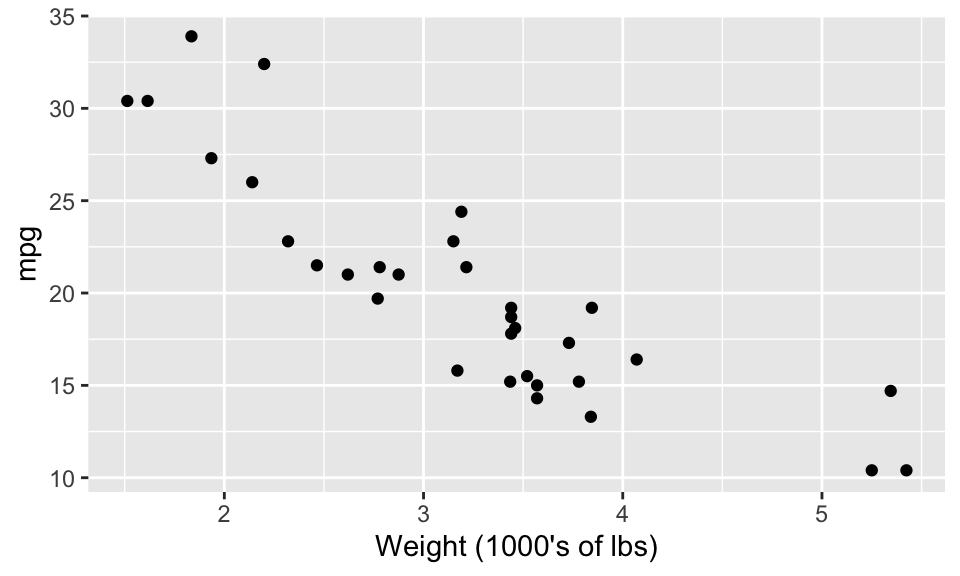
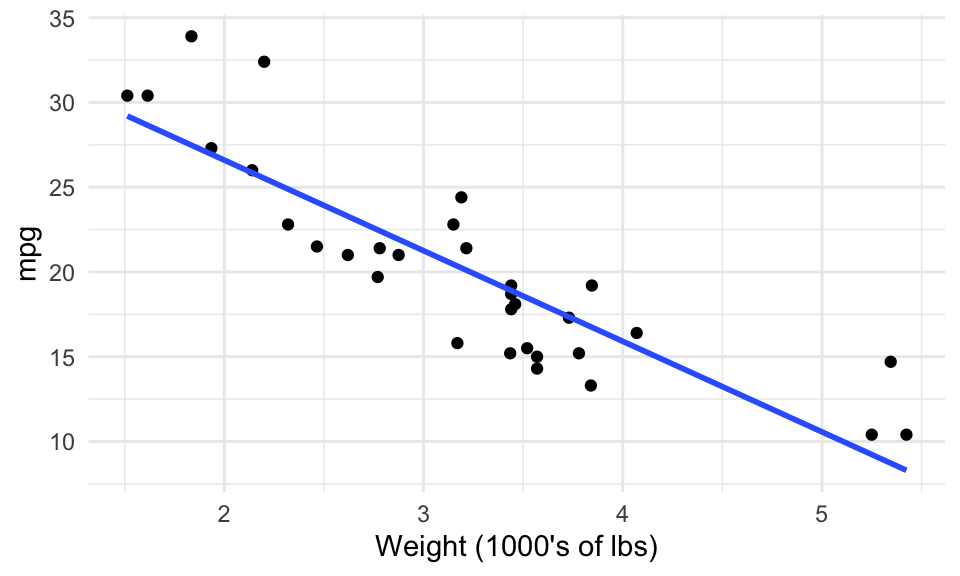
updated notes-a09 to load required packages

diff --git a/content/notes/notes-a09.html b/content/notes/notes-a09.html
@@ -6,6 +6,9 @@ output: html_document
 <script src="/rmarkdown-libs/header-attrs/header-attrs.js"></script>
 
 
+<pre class="r"><code>library(tidyverse)
+library(tidymodels)
+library(gapminder)</code></pre>
 <p>From today’s class, students are anticipated to be able to:</p>
 <ul>
 <li>make a model object in R, using <code>lm()</code> as an example.</li>
@@ -55,14 +58,14 @@ output: html_document
 <li>How many more miles per gallon can we expect of a car that weighs 1000 lbs less than another car?</li>
 </ol>
 <p>A simple scatterplot will give us a general idea, but can’t give us specifics. Here, we use the <code>mtcars</code> dataset in the <code>datasets</code> package. A linear model is one example of a model that can attempt to answer all three – the line corresponding to the fitted model has been added to the scatterplot.</p>
-<pre><code>## Error in ggplot(mtcars, aes(wt, mpg)): could not find function &quot;ggplot&quot;</code></pre>
+<p><img src="/notes/notes-a09_files/figure-html/unnamed-chunk-3-1.png" width="480" style="display: block; margin: auto;" /></p>
 <p>(By the way, you can plot the model using <code>ggplot2</code>’s <code>geom_smooth()</code> layer – but you can’t interact with the model downstream.)</p>
 <p>We can make a prediction of mpg for a car weighing 3,000 lbs by evaluating the line at X = 3:</p>
-<pre><code>## Error in predict(fit, newdata = tibble(wt = 3)) %&gt;% unname(): could not find function &quot;%&gt;%&quot;</code></pre>
+<pre><code>## [1] 21.25171</code></pre>
 <p>We can find the p-value testing the null hypothesis that the true slope of the regression line is 0:</p>
-<pre><code>## Error in glance(fit)$p.value %&gt;% unname(): could not find function &quot;%&gt;%&quot;</code></pre>
+<pre><code>## [1] 1.293959e-10</code></pre>
 <p>And we can calculate how many more miles per gallon a car weighing 1000 less lbs would be expected to have through the slope:</p>
-<pre><code>## Error in tidy(fit): could not find function &quot;tidy&quot;</code></pre>
+<pre><code>## [1] 5.344472</code></pre>
 </div>
 <div id="fitting-a-model-in-r" class="section level2">
 <h2>Fitting a model in R</h2>
@@ -105,7 +108,11 @@ output: html_document
 <h3><code>tidy()</code></h3>
 <p>Use the <code>tidy()</code> function for a statistical summary of each component of your model, where each component gets a row in the output tibble. For <code>lm()</code>, <code>tidy()</code> gives one row per regression coefficient (slope and intercept).</p>
 <pre class="r"><code>tidy(my_lm)</code></pre>
-<pre><code>## Error in tidy(my_lm): could not find function &quot;tidy&quot;</code></pre>
+<pre><code>## # A tibble: 2 × 5
+##   term        estimate std.error statistic  p.value
+##   &lt;chr&gt;          &lt;dbl&gt;     &lt;dbl&gt;     &lt;dbl&gt;    &lt;dbl&gt;
+## 1 (Intercept)    37.3      1.88      19.9  8.24e-19
+## 2 wt             -5.34     0.559     -9.56 1.29e-10</code></pre>
 <p><code>tidy()</code> only works if it makes sense to talk about model “components”.</p>
 </div>
 <div id="augment" class="section level3">
@@ -113,17 +120,37 @@ output: html_document
 <p>Use the <code>augment()</code> function to make predictions on a dataset by augmenting predictions as a new column to your data. By default, <code>augment()</code> uses the dataset that was used to fit the model.</p>
 <pre class="r"><code>augment(my_lm) %&gt;% 
   print(n = 5)</code></pre>
-<pre><code>## Error in augment(my_lm) %&gt;% print(n = 5): could not find function &quot;%&gt;%&quot;</code></pre>
+<pre><code>## # A tibble: 32 × 9
+##   .rownames           mpg    wt .fitted .resid   .hat .sigma   .cooksd .std.re…¹
+##   &lt;chr&gt;             &lt;dbl&gt; &lt;dbl&gt;   &lt;dbl&gt;  &lt;dbl&gt;  &lt;dbl&gt;  &lt;dbl&gt;     &lt;dbl&gt;     &lt;dbl&gt;
+## 1 Mazda RX4          21    2.62    23.3 -2.28  0.0433   3.07 0.0133      -0.766 
+## 2 Mazda RX4 Wag      21    2.88    21.9 -0.920 0.0352   3.09 0.00172     -0.307 
+## 3 Datsun 710         22.8  2.32    24.9 -2.09  0.0584   3.07 0.0154      -0.706 
+## 4 Hornet 4 Drive     21.4  3.22    20.1  1.30  0.0313   3.09 0.00302      0.433 
+## 5 Hornet Sportabout  18.7  3.44    18.9 -0.200 0.0329   3.10 0.0000760   -0.0668
+## # … with 27 more rows, and abbreviated variable name ¹.std.resid
+## # ℹ Use `print(n = ...)` to see more rows</code></pre>
 <p>We can also predict on new datasets. Here are predictions of <code>mpg</code> for cars weighing 3, 4, and 5 thousand lbs.</p>
 <pre class="r"><code>augment(my_lm, newdata = tibble(wt = 3:5))</code></pre>
-<pre><code>## Error in augment(my_lm, newdata = tibble(wt = 3:5)): could not find function &quot;augment&quot;</code></pre>
+<pre><code>## # A tibble: 3 × 2
+##      wt .fitted
+##   &lt;int&gt;   &lt;dbl&gt;
+## 1     3    21.3
+## 2     4    15.9
+## 3     5    10.6</code></pre>
 <p>Notice that only the “X” variables are needed in the input tibble (<code>wt</code>), and that since the “Y” variable (<code>mpg</code>) wasn’t provided, <code>augment()</code> couldn’t calculate anything besides a prediction.</p>
 </div>
 <div id="glance" class="section level3">
 <h3><code>glance()</code></h3>
 <p>Use the <code>glance()</code> function to extract a summary of the model as a whole, in the form of a one-row tibble. This will give you information related to the model fit.</p>
 <pre class="r"><code>glance(my_lm)</code></pre>
-<pre><code>## Error in glance(my_lm): could not find function &quot;glance&quot;</code></pre>
+<pre><code>## # A tibble: 1 × 12
+##   r.squared adj.r.squa…¹ sigma stati…²  p.value    df logLik   AIC   BIC devia…³
+##       &lt;dbl&gt;        &lt;dbl&gt; &lt;dbl&gt;   &lt;dbl&gt;    &lt;dbl&gt; &lt;dbl&gt;  &lt;dbl&gt; &lt;dbl&gt; &lt;dbl&gt;   &lt;dbl&gt;
+## 1     0.753        0.745  3.05    91.4 1.29e-10     1  -80.0  166.  170.    278.
+## # … with 2 more variables: df.residual &lt;int&gt;, nobs &lt;int&gt;, and abbreviated
+## #   variable names ¹adj.r.squared, ²statistic, ³deviance
+## # ℹ Use `colnames()` to see all variable names</code></pre>
 </div>
 </div>
 <div id="probing-the-model-traditional-method" class="section level2">
@@ -137,11 +164,11 @@ output: html_document
 <pre class="r"><code>predict(my_lm) %&gt;% 
   unname() %&gt;% 
   head(5)</code></pre>
-<pre><code>## Error in predict(my_lm) %&gt;% unname() %&gt;% head(5): could not find function &quot;%&gt;%&quot;</code></pre>
+<pre><code>## [1] 23.28261 21.91977 24.88595 20.10265 18.90014</code></pre>
 <p>Here are the predictions of mpg made for cars with a weight of 3, 4, and 5 thousand lbs:</p>
 <pre class="r"><code>predict(my_lm, newdata = tibble(wt = 3:5)) %&gt;% 
   unname()</code></pre>
-<pre><code>## Error in predict(my_lm, newdata = tibble(wt = 3:5)) %&gt;% unname(): could not find function &quot;%&gt;%&quot;</code></pre>
+<pre><code>## [1] 21.25171 15.90724 10.56277</code></pre>
 <p>Checking the documentation of the <code>predict()</code> function <em>for your model</em> isn’t obvious, because the <code>predict()</code> function is a “generic” function. Your best bet is to append the model name after a dot. For example:</p>
 <ul>
 <li>For a model fit with <code>lm()</code>, try <code>?predict.lm</code></li>
@@ -208,28 +235,30 @@ output: html_document
 <pre class="r"><code>ggplot(mtcars, aes(x = wt, y = mpg)) +
     geom_point() +
     geom_smooth(method = &quot;lm&quot;) </code></pre>
-<pre><code>## Error in ggplot(mtcars, aes(x = wt, y = mpg)): could not find function &quot;ggplot&quot;</code></pre>
+<pre><code>## `geom_smooth()` using formula &#39;y ~ x&#39;</code></pre>
+<p><img src="/notes/notes-a09_files/figure-html/unnamed-chunk-21-1.png" width="480" style="display: block; margin: auto;" /></p>
 <p>Let’s visualize some relationships in the <code>gapminder</code> dataset.</p>
 <p>Let’s inspect Zimbabwe, which has a unique behavior in the <code>lifeExp</code> and <code>year</code> relationship.</p>
 <pre class="r"><code>gapminder_Zimbabwe &lt;- gapminder %&gt;% 
-  filter(country == &quot;Zimbabwe&quot;)</code></pre>
-<pre><code>## Error in gapminder %&gt;% filter(country == &quot;Zimbabwe&quot;): could not find function &quot;%&gt;%&quot;</code></pre>
-<pre class="r"><code>gapminder_Zimbabwe %&gt;% 
+  filter(country == &quot;Zimbabwe&quot;)
+
+gapminder_Zimbabwe %&gt;% 
   ggplot(aes(year, lifeExp)) + 
   geom_point()</code></pre>
-<pre><code>## Error in gapminder_Zimbabwe %&gt;% ggplot(aes(year, lifeExp)): could not find function &quot;%&gt;%&quot;</code></pre>
-<p>Let’s try fitting a linear model to this relationship</p>
+<p><img src="/notes/notes-a09_files/figure-html/unnamed-chunk-22-1.png" width="480" style="display: block; margin: auto;" />
+Let’s try fitting a linear model to this relationship</p>
 <pre class="r"><code>ggplot(gapminder_Zimbabwe, aes(year,lifeExp)) +
   geom_point() +
   geom_smooth(method = &quot;lm&quot;, se = F)</code></pre>
-<pre><code>## Error in ggplot(gapminder_Zimbabwe, aes(year, lifeExp)): could not find function &quot;ggplot&quot;</code></pre>
-<p>Now we will try to fit a second degree polynomial and see what would that look like.</p>
+<pre><code>## `geom_smooth()` using formula &#39;y ~ x&#39;</code></pre>
+<p><img src="/notes/notes-a09_files/figure-html/unnamed-chunk-23-1.png" width="480" style="display: block; margin: auto;" />
+Now we will try to fit a second degree polynomial and see what would that look like.</p>
 <pre class="r"><code>ggplot(gapminder_Zimbabwe, aes(year,lifeExp)) +
   geom_point() +
   geom_smooth(method = &quot;lm&quot;,
               formula = y ~ poly(x,2), 
               se = F)</code></pre>
-<pre><code>## Error in ggplot(gapminder_Zimbabwe, aes(year, lifeExp)): could not find function &quot;ggplot&quot;</code></pre>
+<p><img src="/notes/notes-a09_files/figure-html/unnamed-chunk-24-1.png" width="480" style="display: block; margin: auto;" /></p>
 </div>
 <div id="summary" class="section level2">
 <h2>Summary</h2>
